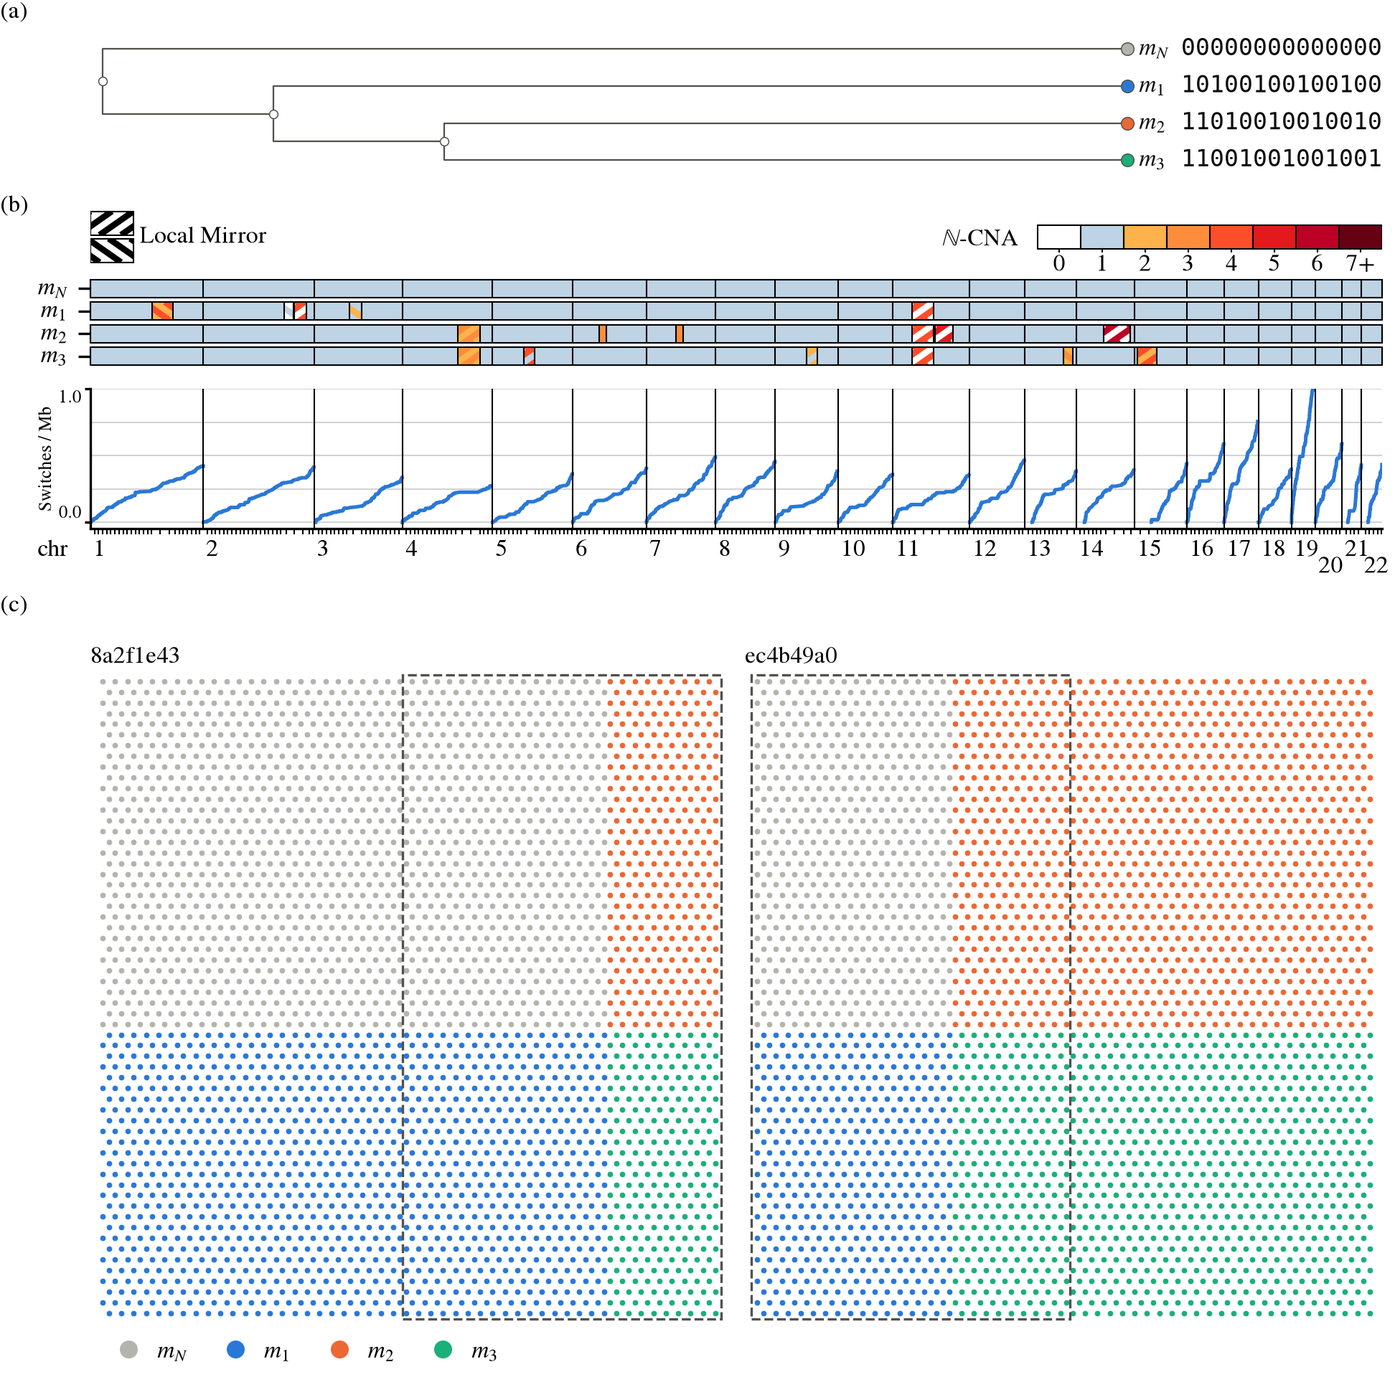
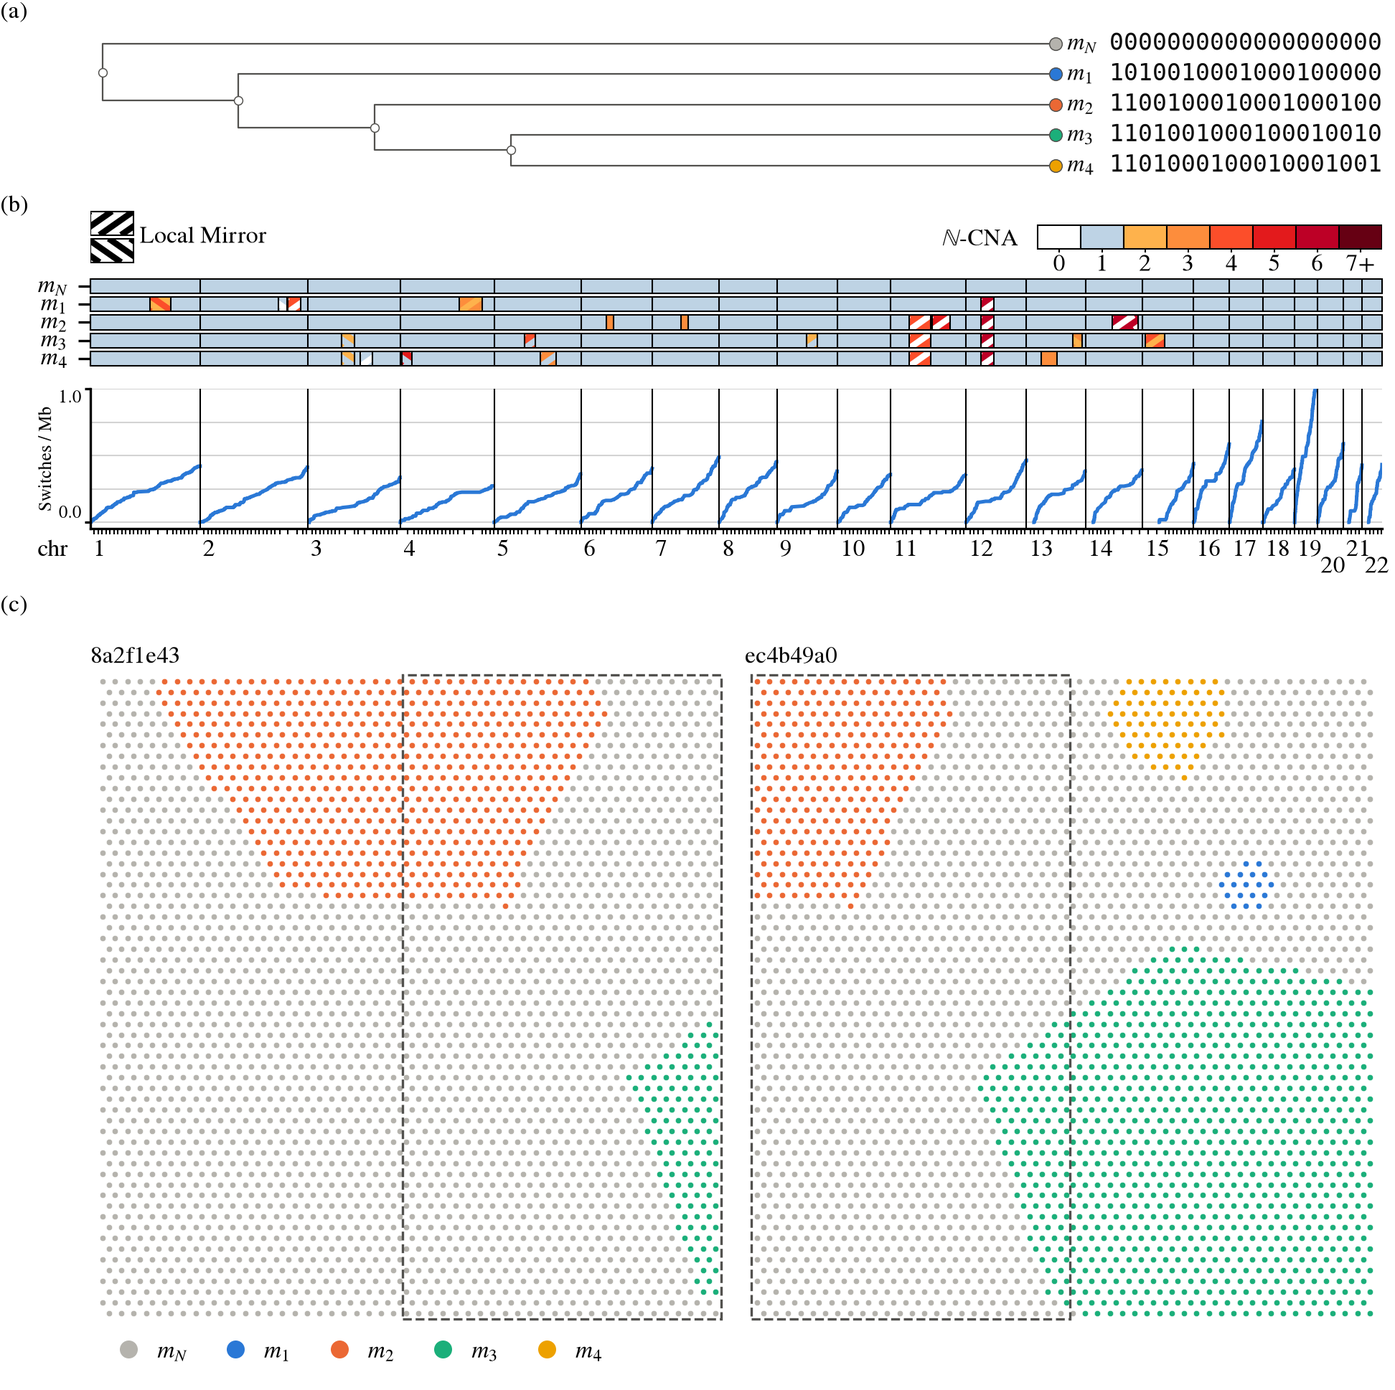
T- #807: study15 on dev_tree's polygons, 2-4 clones and drawn radii; "all" slices share one space
[cna] n_clones takes {law = "uniform", minimum, maximum}; [layout] unplaced
takes "drop" (the clone left out, the next placed, the placed renumbered);
[layout] radius takes {law = "normal", mean, sd, minimum}, drawn per clone.
A clone listed by "all" slices alone is centred anywhere their frames cover,
so a multi-slice truth is drawn on the slices' shared space and each slice's
counts are realized on its own spots; named lists keep their meaning, so
every other r0 is unchanged.

study15 (r0 784e4ebf): polygons, radius Normal(0.3, 0.1) floored at 0.05,
1,000 placements, drop, 2-4 clones. 200 draws: 4 drawn placed 4 in 54 of 74,
3 in 70 of 71; median 428 spots per clone (110-1,007), tumour share 0.50.
study10 38b57c75, study15_2s ed6f692f; the 2-slice pages redrawn.

Claude-Session: https://claude.ai/code/session_01JXaY8ogGJw3Lo2bAgEaAaH

diff --git a/python/port/sim/draw.py b/python/port/sim/draw.py
@@ -130,7 +130,9 @@ REQUIRED: dict[str, tuple[str, ...]] = {
     ),
     "cna": ("mode", "n_clones", "states", "length"),
     "phasing": ("switch_errors", "nu", "unit"),
-    "layout": ("shape", "overlap", "radius", "vertices", "jitter", "max_placements", "unplaced"),
+    "layout": (
+        "shape", "overlap", "radius", "vertices", "jitter", "max_placements", "unplaced",
+    ),
     "config": ("base",),
 }  # fmt: skip
 """Every table and key a manifest must state. Nothing the draw assumes has a
@@ -154,10 +156,15 @@ manifest's draw before it: one truth, each realization its counts and phase. `"t
 realization after the first also draws its own tree, clone sizes and layout; the barcodes are
 shared, and realization 0 keeps the manifest's truth, so `r0_hash` reads the same in both."""
 
-CLONE_COUNTS = {"poisson": ("mean", "minimum")}
+CLONE_COUNTS = {"poisson": ("mean", "minimum"), "uniform": ("minimum", "maximum")}
 """`[cna] n_clones` as a table in place of an integer: the tumour clones of each truth, drawn
 (T- #807). `poisson`: `Poisson(mean)` redrawn until at least `minimum`, so zero-truncated at
-`minimum = 1`. Every slice then lists `clones = "all"`, the clones the draw gives it."""
+`minimum = 1`; `uniform`: every count from `minimum` to `maximum` alike. Every slice then lists `clones = "all"`, the clones the draw gives it."""
+
+RADIUS_LAWS = {"normal": ("mean", "sd", "minimum")}
+"""`[layout] radius` as a table in place of a number (T- #807): each drawn clone's radius, in
+fractions of the shorter extent, drawn in clone order before any placement. `normal`:
+`max(minimum, Normal(mean, sd))`. A number is every clone's radius, as before."""
 
 SHAPES = ("polygons", "rectangles")
 """`[layout] shape` (T- #807): `polygons`, each clone a jittered polygon placed in turn; or
@@ -167,10 +174,11 @@ block takes `[layout] normal_share` of each side squared -- CalicoST's
 `rectangle_initialize_initial_clone` layout (`port.sim.truth.clone_quadrants`). The layout's
 generator assigns the tumour clones to groups; `[layout.size]` is not stated."""
 
-UNPLACED = ("refuse", "stop")
+UNPLACED = ("refuse", "stop", "drop")
 """`[layout] unplaced`, what `layout` does with a drawn clone no placement clears in
-`max_placements` (T- #807): `refuse` the draw, or `stop` -- the layout is final with the
-clones placed so far, and the truth is drawn on those."""
+`max_placements` (T- #807): `refuse` the draw; `stop` -- the layout is final with the clones
+placed so far; or `drop` that clone and place the next. Under `stop` and `drop` the truth is
+drawn on the clones placed, renumbered `clone_0, ...` in the order they were drawn."""
 
 ALL = "all"
 """`[[slice]] clones = "all"`: every tumour clone, however many the truth has (T- #807)."""
@@ -376,6 +384,16 @@ def _missing(document: dict[str, Any]) -> list[str]:
     return missing
 
 
+def _region_radius(region: dict[str, Any], layout: dict[str, Any]) -> float:
+    """A stated region's radius: its own, else `[layout] radius` where that is a number."""
+    if "radius" in region:
+        return float(region["radius"])
+    if isinstance(layout["radius"], dict):
+        msg = "[[slice]] regions state their radius where [layout] radius is a law"
+        raise ValueError(msg)
+    return float(layout["radius"])
+
+
 def from_document(document: dict[str, Any], root: Path = Path()) -> DrawManifest:
     missing = _missing(document)
     if missing:
@@ -391,7 +409,7 @@ def from_document(document: dict[str, Any], root: Path = Path()) -> DrawManifest
                 Region(
                     clone=r["clone"],
                     center=None if "center" not in r else tuple(r["center"]),
-                    radius=float(r.get("radius", layout["radius"])),
+                    radius=_region_radius(r, layout),
                     vertices=int(r.get("vertices", layout["vertices"])),
                     jitter=float(r.get("jitter", layout["jitter"])),
                 )
@@ -409,31 +427,41 @@ def from_document(document: dict[str, Any], root: Path = Path()) -> DrawManifest
 
 
 def _named(manifest: DrawManifest, tumour: tuple[str, ...]) -> DrawManifest:
-    """`manifest` with `tumour` its clones: `n_clones` their count, each `"all"` slice listing them."""
+    """`manifest` with `tumour` its clones: `n_clones` their count; an `"all"` slice lists them."""
     tables = {
         **manifest.tables,
         "cna": {**manifest.tables["cna"], "n_clones": len(tumour)},
     }
-    slices = tuple(
-        piece._replace(clones=tumour) if piece.clones == (ALL,) else piece
-        for piece in manifest.slices
-    )
-    return DrawManifest(tables, slices, manifest.root)
+    return DrawManifest(tables, manifest.slices, manifest.root)
 
 
-def _placed(manifest: DrawManifest, placed: tuple[str, ...]) -> DrawManifest:
-    """`manifest` with `placed`, its first clones, as all its clones: each slice lists those it did."""
+def _lists(piece: Slice, clone: str) -> bool:
+    """Whether `piece` lists `clone`: by name, or as `"all"`."""
+    return piece.clones == (ALL,) or clone in piece.clones
+
+
+def _placed(
+    manifest: DrawManifest, placed: tuple[str, ...], spots: list[np.ndarray]
+) -> tuple[DrawManifest, list[np.ndarray]]:
+    """`manifest` and `spots` with `placed` as all its clones, renumbered `clone_0, ...` in
+    their order: each slice lists those it did, and each spot's label follows its clone."""
     if len(placed) == len(manifest.tumour):
-        return manifest
+        return manifest, spots
+    name = {old: f"clone_{k}" for k, old in enumerate(placed)}
     tables = {
         **manifest.tables,
         "cna": {**manifest.tables["cna"], "n_clones": len(placed)},
     }
     slices = tuple(
-        piece._replace(clones=tuple(c for c in piece.clones if c in placed))
+        piece
+        if piece.clones == (ALL,)
+        else piece._replace(clones=tuple(name[c] for c in piece.clones if c in name))
         for piece in manifest.slices
     )
-    return DrawManifest(tables, slices, manifest.root)
+    index = np.full(len(manifest.tumour) + 1, -1, dtype=np.int64)
+    for old, new in name.items():
+        index[manifest.tumour.index(old)] = int(new.removeprefix("clone_"))
+    return DrawManifest(tables, slices, manifest.root), [index[lab] for lab in spots]
 
 
 def resolved(manifest: DrawManifest, rng: np.random.Generator) -> DrawManifest:
@@ -442,9 +470,12 @@ def resolved(manifest: DrawManifest, rng: np.random.Generator) -> DrawManifest:
     law = manifest.tables["cna"]["n_clones"]
     if not isinstance(law, dict):
         return manifest
-    count = 0
-    while count < int(law["minimum"]):
-        count = int(rng.poisson(float(law["mean"])))
+    if law["law"] == "uniform":
+        count = int(rng.integers(int(law["minimum"]), int(law["maximum"]) + 1))
+    else:
+        count = 0
+        while count < int(law["minimum"]):
+            count = int(rng.poisson(float(law["mean"])))
     return _named(manifest, tuple(f"clone_{k}" for k in range(count)))
 
 
@@ -501,6 +532,16 @@ def _check(manifest: DrawManifest) -> None:
             problems += [f"[layout.size] {k}" for k in absent]
             if "edge" in size and size["edge"] not in EDGES:
                 problems.append(f"[layout.size] edge {size['edge']!r}: one of {EDGES}")
+    radius = manifest.layout["radius"]
+    if isinstance(radius, dict):
+        if radius.get("law") not in RADIUS_LAWS:
+            problems.append(f"[layout] radius law: one of {sorted(RADIUS_LAWS)}")
+        else:
+            problems += [
+                f"[layout] radius {k}"
+                for k in RADIUS_LAWS[radius["law"]]
+                if k not in radius
+            ]
     if manifest.layout["shape"] not in SHAPES:
         problems.append(f"[layout] shape {manifest.layout['shape']!r}: one of {SHAPES}")
     elif manifest.layout["shape"] == "rectangles":
@@ -943,7 +984,9 @@ def _inside(vertices: np.ndarray, points: np.ndarray) -> np.ndarray:
 
 
 def layout(
-    manifest: DrawManifest, points: np.ndarray, rng: np.random.Generator
+    manifest: DrawManifest,
+    points: np.ndarray,
+    rng: np.random.Generator,
 ) -> tuple[list[np.ndarray], dict[str, np.ndarray]]:
     """Clone per spot of every slice, `-1` for normal, and each clone's polygon.
 
@@ -974,7 +1017,7 @@ def layout(
                 raise ValueError(msg)
             stated[region.clone] = (region, origin)
 
-    listed = [c for c in manifest.tumour if any(c in p.clones for p in manifest.slices)]
+    listed = [c for c in manifest.tumour if any(_lists(p, c) for p in manifest.slices)]
     listed += [c for c in stated if c not in listed]
     if manifest.layout["shape"] == "rectangles":
         return _rectangles(manifest, everything, len(frames), listed, rng)
@@ -983,6 +1026,14 @@ def layout(
     # NB drawn before any placement, in clone order, so a clone's size does
     #    not depend on how many placements another took.
     targets = {} if size is None else {c: clone_size(size, rng) for c in sorted(listed)}
+    law = manifest.layout["radius"]
+    # NB a drawn radius per clone, in clone order, where `[layout] radius` is a law
+    radii = (
+        {c: max(float(law["minimum"]), float(rng.normal(law["mean"], law["sd"])))
+         for c in sorted(listed)}
+        if isinstance(law, dict)
+        else dict.fromkeys(listed, float(law))
+    )  # fmt: skip
     # NB with `edge = "clip"` a clone is sized on the arrays continued past their edges
     sized_on = (
         np.concatenate([unbounded(frame) for frame in frames])
@@ -1000,13 +1051,20 @@ def layout(
             region = Region(
                 clone=clone,
                 center=None,
-                radius=float(manifest.layout["radius"]),
+                radius=radii[clone],
                 vertices=int(manifest.layout["vertices"]),
                 jitter=float(manifest.layout["jitter"]),
             )
-            covering = [o for p, o in zip(manifest.slices, origins, strict=True)
-                        if clone in p.clones]  # fmt: skip
-            box = (np.max(covering, axis=0), np.min(covering, axis=0) + extent)
+            listing = [(p, o) for p, o in zip(manifest.slices, origins, strict=True)
+                       if _lists(p, clone)]  # fmt: skip
+            covering = [o for _, o in listing]
+            # NB named on slices: anywhere they all cover; listed by `"all"` alone: anywhere
+            #    any of them covers, the slices' shared space (T- #807)
+            box = (
+                (np.min(covering, axis=0), np.max(covering, axis=0) + extent)
+                if all(p.clones == (ALL,) for p, _ in listing)
+                else (np.max(covering, axis=0), np.min(covering, axis=0) + extent)
+            )
             if np.any(box[0] > box[1]):
                 msg = f"{clone} is listed on slices whose arrays do not overlap"
                 raise ValueError(msg)
@@ -1031,6 +1089,9 @@ def layout(
                 msg = f"region of {clone} overlaps another and [layout] overlap = false"
                 raise ValueError(msg)
         else:
+            if manifest.layout["unplaced"] == "drop":
+                # NB this clone is left out; the next is placed
+                continue
             if manifest.layout["unplaced"] == "stop":
                 # NB final with the clones placed so far: this one and every later one are left out
                 break
@@ -1434,7 +1495,9 @@ def realize(
         # NB laid out before the tree is drawn (their generators are separate): under
         #    `[layout] unplaced = "stop"` the truth has the clones the layout placed
         spots, shapes = layout(drawn, points, layout_rng)
-        drawn = _placed(drawn, tuple(c for c in drawn.tumour if c in shapes))
+        drawn, spots = _placed(
+            drawn, tuple(c for c in drawn.tumour if c in shapes), spots
+        )
         clones = ("normal", *drawn.tumour)
         tree = draw_tree(drawn, tree_rng)
         depth_factor = _depth(

diff --git a/tests/test_sim_draw.py b/tests/test_sim_draw.py
@@ -494,7 +494,8 @@ def _sized(law: dict[str, Any]) -> DrawManifest:
         {"offset": [0.0, 0.0], "clones": ["clone_0", "clone_1", "clone_2"]}
     ]
     document["layout"] |= {
-        "shape": "polygons", "max_placements": 1000, "unplaced": "refuse", "size": law,
+        "shape": "polygons", "radius": 0.2, "max_placements": 1000, "unplaced": "refuse",
+        "size": law,
     }  # fmt: skip
     return from_document(document, SIM_MANIFESTS)
 
@@ -688,17 +689,26 @@ def test_felsenstein_refuses_fewer_expected_events_than_clones() -> None:
 
 
 @pytest.mark.analytic
-def test_a_clone_count_law_draws_a_zero_truncated_poisson() -> None:
-    """`[cna] n_clones = {law = "poisson", mean = 3, minimum = 1}`, 4,000 draws (T- #807).
+def test_a_clone_count_law_draws_its_counts() -> None:
+    """`[cna] n_clones` as a law, 6,000 draws each (T- #807).
 
-    The count is at least 1, its mean the zero-truncated Poisson's, 3 / (1 - e^-3) = 3.157,
-    to 0.06 (about 4 standard errors), and a fixed count consumes nothing from the generator.
+    `uniform` 2-4 (`study15`): each count within 0.03 of 1/3 (about 5 standard errors);
+    `poisson` at mean 3, minimum 1: at least 1, the mean 3 / (1 - e^-3) = 3.157 to 0.06.
+    A fixed count consumes nothing from the generator.
     """
     from port.sim.draw import read_manifest, resolved
 
     manifest = read_manifest(SIM_MANIFESTS / "study15.toml")
     rng = np.random.default_rng(807)
-    counts = np.array([len(resolved(manifest, rng).tumour) for _ in range(4000)])
+    counts = np.array([len(resolved(manifest, rng).tumour) for _ in range(6000)])
+
+    assert set(counts) == {2, 3, 4}
+    assert np.all(np.abs(np.bincount(counts)[2:] / counts.size - 1 / 3) < 0.03)
+
+    document = extended(SIM_MANIFESTS / "study15.toml")
+    document["cna"]["n_clones"] = {"law": "poisson", "mean": 3, "minimum": 1}
+    poisson = from_document(document, SIM_MANIFESTS)
+    counts = np.array([len(resolved(poisson, rng).tumour) for _ in range(6000)])
 
     assert counts.min() >= 1
     assert abs(counts.mean() - 3 / (1 - np.exp(-3))) < 0.06, counts.mean()
@@ -707,6 +717,27 @@ def test_a_clone_count_law_draws_a_zero_truncated_poisson() -> None:
     rng = np.random.default_rng(0)
     assert resolved(fixed, rng) is fixed
     assert rng.random() == np.random.default_rng(0).random()
+
+
+@pytest.mark.analytic
+def test_a_dropped_clone_leaves_the_rest_numbered_in_order() -> None:
+    """`[layout] unplaced = "drop"` on `study15` (T- #807): the truth's clones are
+    `clone_0 ...` with no gap, every one with spots, whichever drawn clone was dropped (12 realizations)."""
+    from dataclasses import replace
+
+    from port.sim.draw import merged_tables, read_manifest, realize
+
+    manifest = read_manifest(SIM_MANIFESTS / "study15.toml")
+    manifest = replace(
+        manifest,
+        tables=merged_tables(manifest.tables, {"sample": {"realizations": 12}}),
+    )
+    for realized in realize(manifest):
+        truth = realized.truth
+        n = len(truth.clones) - 1
+
+        assert truth.clones[1:] == tuple(f"clone_{k}" for k in range(n))
+        assert set(np.unique(truth.labels[0])) == set(range(n + 1))
 
 
 @pytest.mark.analytic
@@ -740,9 +771,11 @@ def test_rectangles_partition_the_frame_by_the_clone_count() -> None:
     """`[layout] shape = "rectangles"` (T- #807): every spot in one block of a `p x p` grid,
     `p = ceil(sqrt(n + 1))`, each tumour clone holding a block, normal the top-left one and
     at least `normal_share` of the slice; against `port.sim.truth.clone_quadrants`' counts."""
-    from port.sim.draw import read_manifest, resolved
+    from port.sim.draw import resolved
 
-    manifest = read_manifest(SIM_MANIFESTS / "study15.toml")
+    document = extended(SIM_MANIFESTS / "study15.toml")
+    document["layout"] |= {"shape": "rectangles", "normal_share": 0.3}
+    manifest = from_document(document, SIM_MANIFESTS)
     _, _, points = hex_array(60, 50)
     for seed in range(40):
         drawn = resolved(manifest, np.random.default_rng(seed))

diff --git a/python/port/studies/paper_figures.py b/python/port/studies/paper_figures.py
@@ -797,7 +797,7 @@ QUESTIONS: dict[str, tuple[str, str]] = {
         "`multisample_pages`: `truth_combined_figure(spatial=True)` on `MULTISAMPLE[fixture]`'s r0",
     ),
     "study/truth_combined_spatial_15_2s_r0.png": (
-        "What does the studies' draw plant on two samples, `study15_2s.toml` r0: CalicoST's rectangles by a Poisson clone count?",
+        "What does the studies' draw plant on two samples, `study15_2s.toml` r0: its truth on the slices' shared space?",
         "`truth_combined_figure(spatial=True)` on `sim/manifests/study15_2s.toml` r0 (T- #810)",
     ),
     "study/truth_combined_spatial_15_2s_r1.png": (

diff --git a/docs/plots/paper/README.md b/docs/plots/paper/README.md
@@ -38,8 +38,8 @@ T- #683), each on its own segmentation, so their contig widths differ.
 | `he_multisample.png` | What H&E slide do the counterpart's planted clones stain, slice by slice? | `he_slices_figure`: `port.sim.he_slide.mock_he` per slice |
 | `combined.png` | What did the run fit, genome and array on one page? | `port.extensions.combined_figure.combined_figure` |
 | `pop_combined.png` | How many UMIs does a clone need, how long must a CNA be, at each stay probability 1 - t, and how often is a true-(1, 1) segment called altered? | `port.studies.population_report.combined` on `docs/studies/population_summary_limited.json` (#745's limited rerun; #746 the full) |
-| `study/truth_combined_spatial_15_2s_r0.png` | What does the studies' draw plant on two samples, `sim/manifests/study15_2s.toml` r0 (`61654d9f`): `study15.toml` on two slices overlapping by half an array, CalicoST's rectangles by a Poisson clone count? | `truth_combined_figure(spatial=True)` on r0, as `truth_figures` draws the fixture's (T- #810) |
-| `study/truth_combined_spatial_15_2s_r1.png` | The same at r1 (`61575473`): does the next realization redraw its truth, its clone count and layout with it? | `truth_combined_figure(spatial=True)` on r1 (T- #810) |
+| `study/truth_combined_spatial_15_2s_r0.png` | What does the studies' draw plant on two samples, `sim/manifests/study15_2s.toml` r0 (`ed6f692f`): `study15.toml` on two slices overlapping by half an array, its truth drawn on their shared space? | `truth_combined_figure(spatial=True)` on r0, as `truth_figures` draws the fixture's (T- #810) |
+| `study/truth_combined_spatial_15_2s_r1.png` | The same at r1 (`163fb8d2`): does the next realization redraw its truth, its clone count and layout with it? | `truth_combined_figure(spatial=True)` on r1 (T- #810) |
 | `solver_combined.md` | What was `solver_combined.png` drawn from? | `solver_note`: both records' data hashes, their settings and the code |
 | `solver_combined.png` | How far above the best does each spatial solver and each copy-state start end, and how fast? | `solver_figure`: `port.studies.potts_plot.draw`, `port.studies.copy_state_plot.draw` |
 

diff --git a/changelog.d/807.added.md b/changelog.d/807.added.md
@@ -1,3 +1,5 @@
 Added `[layout.size] edge` to `port.sim.draw` manifests, required wherever `[layout.size]` is stated: `"grow"` keeps the polygon growing to its target at the array's edge, as before, and `"clip"` sizes it on the array continued past the edge (`draw.unbounded`), so a clone that runs off keeps only the spots that land on it.
 Added `[cna] n_clones` as a law (`{law = "poisson", mean, minimum}`, drawn per truth by `port.sim.draw.resolved`), `[[slice]] clones = "all"`, and the required `[layout] unplaced = "refuse" | "stop"`, under which a clone no placement clears ends the layout and the truth is drawn on the clones placed.
 Added the required `[layout] shape = "polygons" | "rectangles"` to `port.sim.draw` manifests: `rectangles` cuts the slices' shared frame into CalicoST's `p x p` grid by the clone count, normal's block at least `[layout] normal_share` of it.
+Added `{law = "uniform", minimum, maximum}` to `[cna] n_clones` and `[layout] unplaced = "drop"`, under which a clone no placement clears is left out, the next placed, and the clones placed renumbered before the tree is drawn.
+Added `[layout] radius` as a law, `{law = "normal", mean, sd, minimum}`: each drawn clone's radius, drawn in clone order before any placement.

diff --git a/README.md b/README.md
@@ -515,9 +515,9 @@ median, against 29-35% under the exponential (#619;
 `run_study --cna-lengths` draws both laws). `study15.toml` is the draw the Potts stream, the copy-state stream and the
 population study read, and `study10.toml` the same at 10 Mb (`study15_2s.toml` on two
 slices, for figures): CNA lengths lognormal at a 15 Mb median; every (A, B)
-up to a total of 6, uniform; a zero-truncated Poisson(3) count of clones
-(`[cna] n_clones` as a law), laid out as CalicoST easy's and hard's: the slice
-cut into a grid of rectangles by that count (`[layout] shape = "rectangles"`); CalicoST
+up to a total of 6, uniform; 2, 3 or 4 tumour clones alike (`[cna] n_clones` as a
+law), each a jittered hexagon of radius Normal(0.3, 0.1), a clone that 1,000 centres do not
+clear dropped (`[layout] unplaced = "drop"`); CalicoST
 hard's admixture (0.14, `cell`), BAF overdispersion, phase switches,
 irreversible LOH, and truth varied per realization (T- #807; `population*.toml`
 retired to `sim/sandbox/manifests/`);
